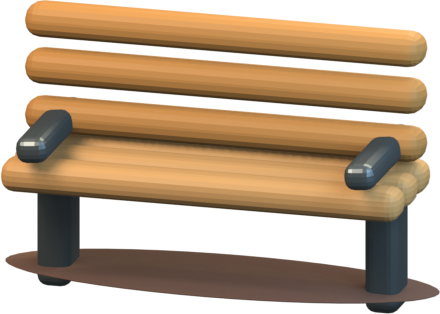
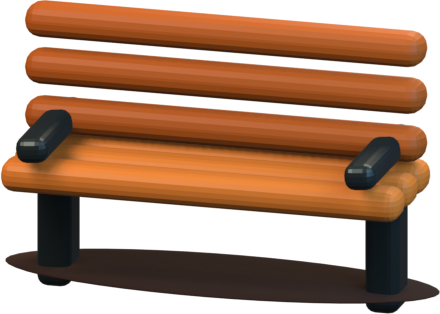
Every prop in the game was pastel, and it was not the lighting
Town has been the worst location on the contact sheet for a long time --
0.334 mean saturation against a 0.42 floor, 9.1% colourless pixels --
after the palette, the road, the compositing and the view transform had
all been fixed in turn. The storefronts are authored #E14B45, #37B4CD
and #8A3FD6, three candy colours, and they shipped as dusty pink, milky
mint and lavender.

Blender's Base Color input is LINEAR. A hex colour off a palette is
sRGB. All three rigs did this:

    return tuple(int(value[i:i + 2], 16) / 255 for i in (0, 2, 4))

which tells Blender that #E14B45's 0.29 green IS a linear 0.29. The
render then encodes back out through sRGB on the way to the PNG, and
that lifts mid-tones hard. Under a perfectly neutral unit light, with no
rig and nothing else wrong, #E14B45 comes back #F1948E, #37B4CD comes
back #80DBE8 and #8A3FD6 comes back #C288EC. The arithmetic predicts the
shipped art: the coral storefront's dominant body pixel measured #E08070
against a predicted #F1948E, the gap being light falloff.

Nothing downstream of an already-washed base colour can put the chroma
back, which is why the AgX pass helped and could not finish the job --
and the doc recording that pass said so plainly at the time: "it did not
fix everything". This is the rest of it.

Measured over all twenty props, before and after:

    mean saturation   0.444 -> 0.641
    mean colourless    2.7% -> 1.3%
    mean value        0.683 -> 0.617
[…]

diff --git a/barkly/app/__tests__/scene_modularity.test.ts b/barkly/app/__tests__/scene_modularity.test.ts
@@ -166,6 +166,30 @@ describe('world scenery stays modular', () => {
     }
   });
 
+  /*
+   * The pastel that survived the AgX fix.
+   *
+   * Blender's Base Color input is LINEAR; a hex off a palette is sRGB. Handing
+   * `int(hex) / 255` straight to the shader tells Blender that #E14B45's 0.29
+   * green is a linear 0.29, and the render encodes it back out through sRGB on
+   * the way to the PNG, which lifts mid-tones hard. Under a perfectly neutral
+   * unit light and with nothing else wrong, #E14B45 comes back #F1948E and
+   * #37B4CD comes back #80DBE8. Measured over all twenty props, correcting it
+   * moved mean saturation 0.444 -> 0.641 and colourless pixels 2.7% -> 1.3%.
+   *
+   * Dropping AgX was a real fix and it could not reach this one: the base
+   * colours were already wrong before a single light hit them.
+   */
+  it('converts authored sRGB hex to linear before handing it to a shader', () => {
+    for (const factory of [worldFactory, homeFactory, architectureFactory]) {
+      expect(factory).toContain('def _srgb_to_linear');
+      expect(factory).toMatch(/\(\(channel \+ 0\.055\) \/ 1\.055\) \*\* 2\.4/);
+      // The raw division must not survive anywhere as the value handed to a material.
+      expect(factory).not.toMatch(/return tuple\(int\(value\[[^\]]+\], 16\) \/ 255/);
+      expect(factory).toMatch(/_srgb_to_linear\(int\(/);
+    }
+  });
+
   it('uses composition lanes instead of arbitrary per-prop tilts', () => {
     expect(outdoorScenes).toContain('const COMPOSITION =');
     expect(outdoorScenes).not.toMatch(/<WorldObject[^>]*\srotate=/);

diff --git a/barkly/app/tools/blender/world_prop_pack.py b/barkly/app/tools/blender/world_prop_pack.py
@@ -30,9 +30,32 @@ OUT.mkdir(parents=True, exist_ok=True)
 CAMERA_LOCATION = (3.0, -10.8, 4.5)
 
 
+def _srgb_to_linear(channel: float) -> float:
+    """
+    THE REASON EVERY PROP SHIPPED PASTEL.
+
+    Blender's Base Color input is LINEAR. A hex colour off a palette is sRGB.
+    Handing `int(hex) / 255` straight to the shader tells Blender that #E14B45's
+    0.29 green is a linear 0.29, and the render then encodes it back out through
+    sRGB on the way to the PNG -- which lifts mid-tones hard. Under a perfectly
+    neutral unit light and with no other change, #E14B45 comes back as #F1948E,
+    #37B4CD as #80DBE8, #8A3FD6 as #C288EC. Three dusty pastels, from three
+    candy colours, with nothing in the lighting or the view transform at fault.
+
+    This is what the AgX fix could not reach. Dropping AgX stopped the highlight
+    shoulder from rolling saturated pixels toward white and it measurably helped,
+    but the base colours were already wrong before a single light hit them, so
+    Town stayed washed and the doc that recorded that pass said so plainly:
+    "it did not fix everything".
+    """
+    if channel <= 0.04045:
+        return channel / 12.92
+    return ((channel + 0.055) / 1.055) ** 2.4
+
+
 def rgb(value: str):
     value = value.lstrip("#")
-    return tuple(int(value[i:i + 2], 16) / 255 for i in (0, 2, 4))
+    return tuple(_srgb_to_linear(int(value[i:i + 2], 16) / 255) for i in (0, 2, 4))
 
 
 def clean_scene():
@@ -194,7 +217,7 @@ def setup_camera_and_lights(ortho_scale=5.8, target=(0, 0, 1.4), resolution=(640
     bpy.ops.object.light_add(type="AREA", location=(-4.8, -5.0, 8.4))
     key = bpy.context.object
     key.name = "Barkly warm key"
-    key.data.energy = 820
+    key.data.energy = 880
     key.data.size = 5.0
     key.data.color = (1.0, 0.77, 0.58)
     look_at(key, target)
@@ -202,7 +225,7 @@ def setup_camera_and_lights(ortho_scale=5.8, target=(0, 0, 1.4), resolution=(640
     bpy.ops.object.light_add(type="AREA", location=(5.0, -2.2, 4.0))
     fill = bpy.context.object
     fill.name = "Barkly cool fill"
-    fill.data.energy = 280
+    fill.data.energy = 300
     fill.data.size = 5.5
     fill.data.color = (0.58, 0.78, 1.0)
     look_at(fill, target)
@@ -210,7 +233,7 @@ def setup_camera_and_lights(ortho_scale=5.8, target=(0, 0, 1.4), resolution=(640
     bpy.ops.object.light_add(type="AREA", location=(1.8, 4.0, 6.8))
     rim = bpy.context.object
     rim.name = "Barkly warm rim"
-    rim.data.energy = 380
+    rim.data.energy = 408
     rim.data.size = 4.2
     rim.data.color = (1.0, 0.84, 0.63)
     look_at(rim, target)
@@ -491,16 +514,19 @@ def home_care_tray():
        floor, the back rim -- and the fix stays inside this one builder instead
        of forking the shared camera every other prop depends on.
 
-    Colours are darker than the flat version's because the key light lifts a
-    base substantially -- the bench renders as honey from #BD601C -- so these
-    are chosen to LAND on the palette values, not to match them in the file.
+    Colours are now written as the colour they should BE. They used to be
+    written several stops darker, to compensate for a render pipeline that was
+    handing sRGB hex to a linear shader input and washing everything out; with
+    that fixed (see `_srgb_to_linear`) the compensation became a second bug and
+    the tray rendered nearly black. If a prop's material list looks like it is
+    apologising for the lighting, check the colour space before tuning it.
     """
-    wood = material("Tray wood", "#6A2F0C", roughness=0.58, coat=0.05)
-    floor = material("Tray floor", "#4A1D06", roughness=0.66, coat=0.03)
-    front = material("Tray front", "#3E1705", roughness=0.62, coat=0.04)
-    rim = material("Tray rim", "#A85A18", roughness=0.50, coat=0.08)
-    shine = material("Tray shine", "#D89A56", roughness=0.40, coat=0.12)
-    brass = material("Tray brass", "#C9922F", roughness=0.30, metallic=0.72)
+    wood = material("Tray wood", "#C0762A", roughness=0.58, coat=0.05)
+    floor = material("Tray floor", "#9B531A", roughness=0.66, coat=0.03)
+    front = material("Tray front", "#7E3D12", roughness=0.62, coat=0.04)
+    rim = material("Tray rim", "#DE9740", roughness=0.50, coat=0.08)
+    shine = material("Tray shine", "#F3C078", roughness=0.40, coat=0.12)
+    brass = material("Tray brass", "#EFBA4A", roughness=0.30, metallic=0.72)
 
     # The camera's own yaw, cancelled. atan(3.0 / 10.8) from CAMERA_LOCATION --
     # derived, never typed as a number, so moving the camera moves the tray with

diff --git a/barkly/app/tools/blender/home_architecture.py b/barkly/app/tools/blender/home_architecture.py
@@ -15,9 +15,32 @@ OUT.mkdir(parents=True, exist_ok=True)
 CAMERA_LOCATION = (3.0, -10.8, 4.5)
 
 
+def _srgb_to_linear(channel: float) -> float:
+    """
+    THE REASON EVERY PROP SHIPPED PASTEL.
+
+    Blender's Base Color input is LINEAR. A hex colour off a palette is sRGB.
+    Handing `int(hex) / 255` straight to the shader tells Blender that #E14B45's
+    0.29 green is a linear 0.29, and the render then encodes it back out through
+    sRGB on the way to the PNG -- which lifts mid-tones hard. Under a perfectly
+    neutral unit light and with no other change, #E14B45 comes back as #F1948E,
+    #37B4CD as #80DBE8, #8A3FD6 as #C288EC. Three dusty pastels, from three
+    candy colours, with nothing in the lighting or the view transform at fault.
+
+    This is what the AgX fix could not reach. Dropping AgX stopped the highlight
+    shoulder from rolling saturated pixels toward white and it measurably helped,
+    but the base colours were already wrong before a single light hit them, so
+    Town stayed washed and the doc that recorded that pass said so plainly:
+    "it did not fix everything".
+    """
+    if channel <= 0.04045:
+        return channel / 12.92
+    return ((channel + 0.055) / 1.055) ** 2.4
+
+
 def rgb(value: str):
     value = value.lstrip('#')
-    return tuple(int(value[i:i+2], 16) / 255 for i in (0, 2, 4))
+    return tuple(_srgb_to_linear(int(value[i:i+2], 16) / 255) for i in (0, 2, 4))
 
 
 def look_at(obj, target=(0.0, 0.0, 0.25)):

diff --git a/barkly/app/tools/blender/home_prop_pack.py b/barkly/app/tools/blender/home_prop_pack.py
@@ -25,9 +25,32 @@ OUT.mkdir(parents=True, exist_ok=True)
 CAMERA_LOCATION = (3.0, -10.8, 4.5)
 
 
+def _srgb_to_linear(channel: float) -> float:
+    """
+    THE REASON EVERY PROP SHIPPED PASTEL.
+
+    Blender's Base Color input is LINEAR. A hex colour off a palette is sRGB.
+    Handing `int(hex) / 255` straight to the shader tells Blender that #E14B45's
+    0.29 green is a linear 0.29, and the render then encodes it back out through
+    sRGB on the way to the PNG -- which lifts mid-tones hard. Under a perfectly
+    neutral unit light and with no other change, #E14B45 comes back as #F1948E,
+    #37B4CD as #80DBE8, #8A3FD6 as #C288EC. Three dusty pastels, from three
+    candy colours, with nothing in the lighting or the view transform at fault.
+
+    This is what the AgX fix could not reach. Dropping AgX stopped the highlight
+    shoulder from rolling saturated pixels toward white and it measurably helped,
+    but the base colours were already wrong before a single light hit them, so
+    Town stayed washed and the doc that recorded that pass said so plainly:
+    "it did not fix everything".
+    """
+    if channel <= 0.04045:
+        return channel / 12.92
+    return ((channel + 0.055) / 1.055) ** 2.4
+
+
 def rgb(hex_value: str):
     value = hex_value.lstrip("#")
-    return tuple(int(value[i:i + 2], 16) / 255 for i in (0, 2, 4))
+    return tuple(_srgb_to_linear(int(value[i:i + 2], 16) / 255) for i in (0, 2, 4))
 
 
 def clean_scene():

diff --git a/barkly/docs/ART_DIRECTION.md b/barkly/docs/ART_DIRECTION.md
@@ -527,3 +527,57 @@ brighten when Barkly wants that thing; a baked copy underneath them simply drew
 everything twice. The app also keeps the dark border — wood on a wooden floor
 has no edge of its own, and losing that silhouette was what made the first
 in-app version read as a stain rather than an object.
+
+## The pastel that survived the AgX fix
+
+Dropping AgX was a real fix and the section above measures it honestly, right
+down to the sentence admitting it "did not fix everything". This is the rest of
+it, and it was never in the lighting at all.
+
+**Blender's Base Color input is LINEAR. A hex colour off a palette is sRGB.**
+All three rigs did this:
+
+```python
+return tuple(int(value[i:i + 2], 16) / 255 for i in (0, 2, 4))
+```
+
+which tells Blender that `#E14B45`'s 0.29 green *is* a linear 0.29. The render
+then encodes back out through sRGB on the way to the PNG, and that lifts
+mid-tones hard. Under a perfectly neutral unit light, with no rig, no shading,
+and nothing else wrong:
+
+| authored | comes back as |
+|---|---|
+| `#E14B45` coral | `#F1948E` |
+| `#37B4CD` aqua | `#80DBE8` |
+| `#8A3FD6` violet | `#C288EC` |
+
+Three dusty pastels from three candy colours. The prediction checks out on the
+shipped art: the coral storefront's dominant body pixel measured `#E08070`
+against a predicted `#F1948E`, the gap being the light falloff. That is why
+Town stayed the worst location on the contact sheet — 0.334 mean saturation
+against a 0.42 floor — after the palette, the road, the compositing *and* the
+view transform had all been fixed. Nothing downstream of an already-washed base
+colour can put the chroma back.
+
+Fixed in `_srgb_to_linear`, in all three packs, guarded by a test that also
+refuses the raw division coming back. Measured over all twenty props:
+
+| | before | after |
+|---|---|---|
+| mean saturation | 0.444 | **0.641** |
+| mean colourless | 2.7% | **1.3%** |
+| mean value | 0.683 | 0.617 |
+
+The value drop is the honest half of the trade and it is not a loss: those
+brighter numbers were the inflation, not the art. Every prop is darker and far
+more colourful, which is the direction this document has asked for from the
+top — Barkly is the most saturated thing on screen, and the world now rises to
+meet him instead of sitting pastel underneath him.
+
+**One consequence to watch for.** Materials authored *while* the bug was live
+were picked to land correctly through it, so they are several stops too dark
+once it is fixed. The care tray was written at `#6A2F0C`/`#4A1D06` and rendered
+nearly black; it is `#C0762A`/`#9B531A` now — the colour it should actually be.
+If a prop's material list looks like it is apologising for the lighting, check
+the colour space before tuning anything.
